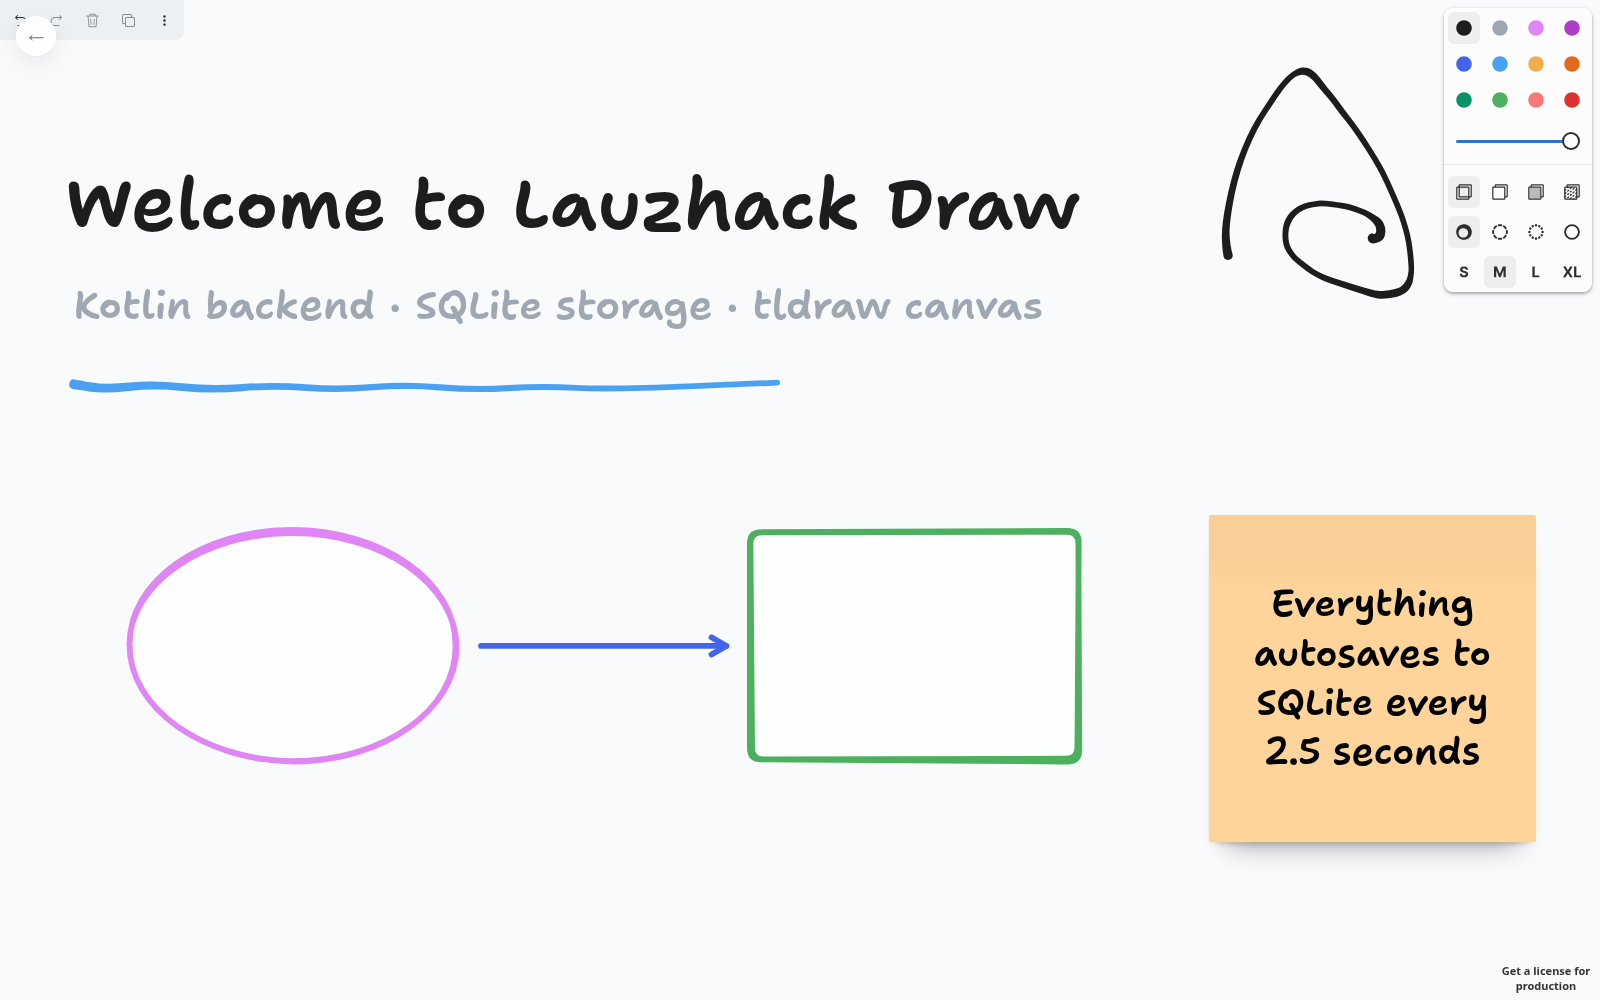
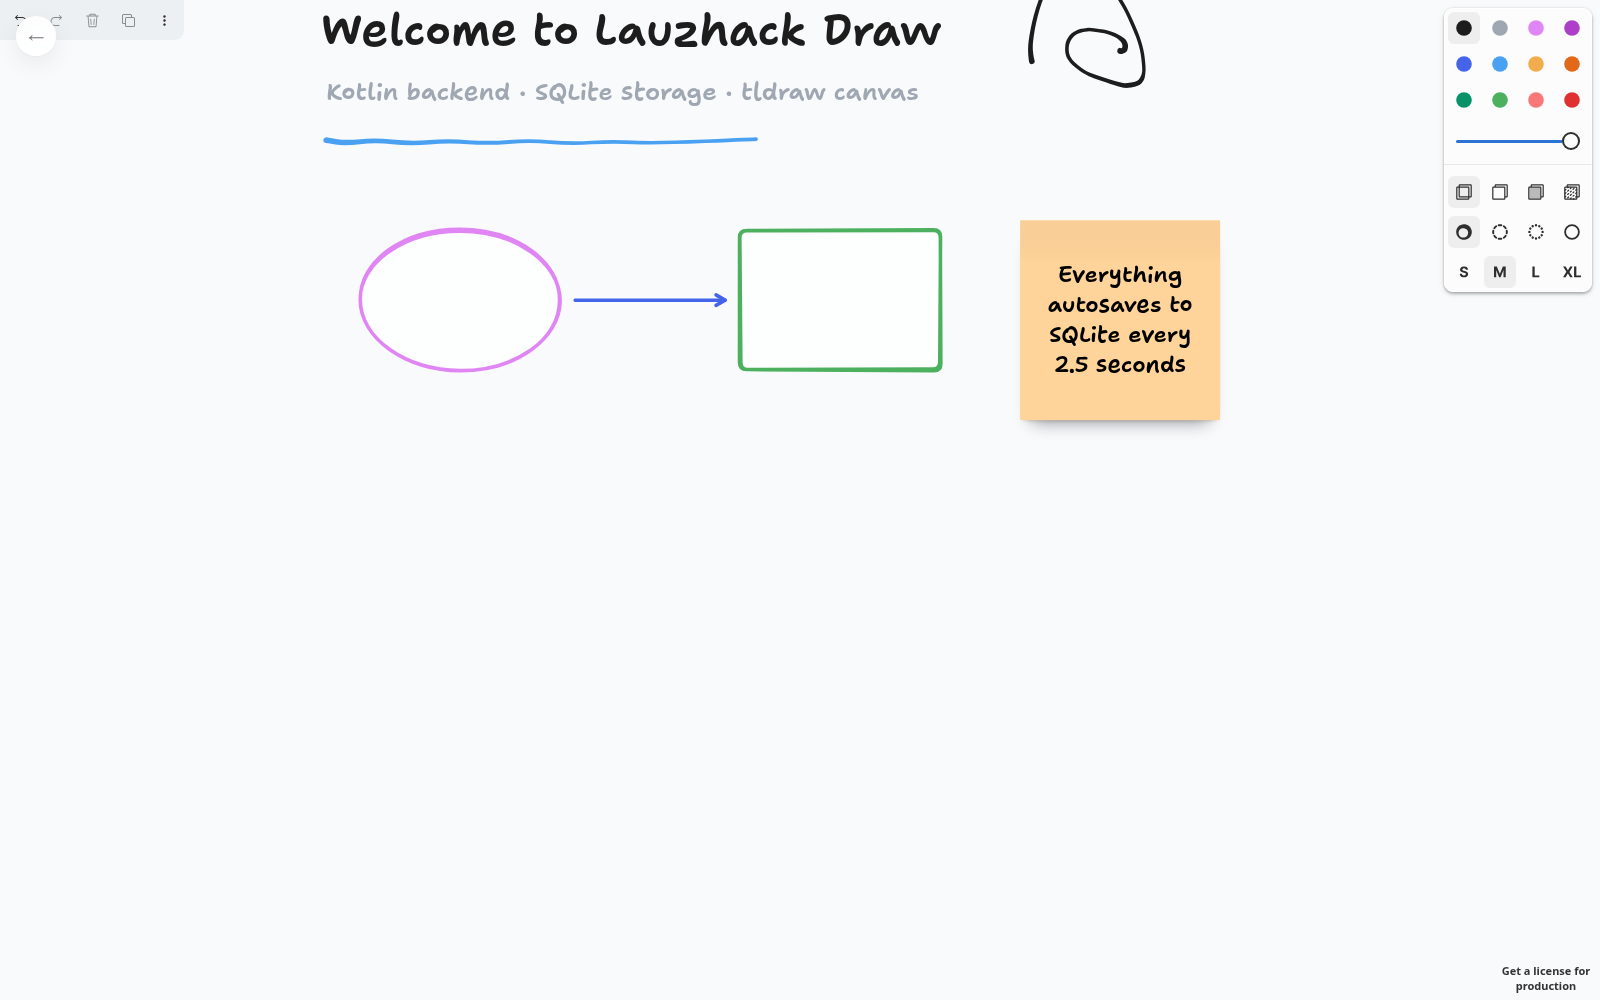
Vertical scrolling document camera
- camera constrained to a tall page (960x4800) with 'contain' behavior on
  both axes; wheel pans instead of zooming; initialZoom fit-x-100 caps the
  start at 100% with the page centered and its top pinned (origin.y = 0)
- padding is required by the constraints API (fixed a mount crash)
- removed zoomToFit: constraints + initialZoom own camera placement
- hero screenshot retaken

diff --git a/web/src/jsMain/kotlin/com/lauzhack/web/ui/Canvas.kt b/web/src/jsMain/kotlin/com/lauzhack/web/ui/Canvas.kt
@@ -1,7 +1,6 @@
 package com.lauzhack.web.ui
 
 import com.lauzhack.shared.api.DrawingApi
-import com.lauzhack.web.tldraw.Editor
 import com.lauzhack.web.tldraw.Tldraw
 import com.lauzhack.web.tldraw.toElementOrNull
 import com.lauzhack.web.tldraw.toShapePartial
@@ -39,8 +38,48 @@ private fun hiddenComponents(): dynamic {
 private fun singlePageOptions(): dynamic {
     val o: dynamic = js("{}")
     o.maxPages = 1
+    o.camera = documentCameraOptions()
     return o
 }
+
+/**
+ * Camera behaves like a vertical scrolling document:
+ * - wheel pans (scrolls) instead of zooming
+ * - the camera is constrained to a tall page; 'contain' pins the page while
+ *   zoomed out below the fit zoom and keeps it inside the viewport when zoomed in
+ */
+private fun documentCameraOptions(): dynamic {
+    val camera: dynamic = js("{}")
+    camera.wheelBehavior = "pan"
+
+    val constraints: dynamic = js("{}")
+    val bounds: dynamic = js("{}")
+    bounds.x = 0.0
+    bounds.y = 0.0
+    bounds.w = PAGE_WIDTH
+    bounds.h = PAGE_HEIGHT
+    constraints.bounds = bounds
+
+    val origin: dynamic = js("{}")
+    origin.x = 0.5
+    origin.y = 0.0 // open at the top of the document, like a real document
+    constraints.origin = origin
+
+    constraints.behavior = "contain"
+    constraints.initialZoom = "fit-x-100"
+
+    val padding: dynamic = js("{}")
+    padding.x = 32.0
+    padding.y = 32.0
+    constraints.padding = padding
+
+    camera.constraints = constraints
+    return camera
+}
+
+/** Dimensions of the document page (page-space bounds). */
+private const val PAGE_WIDTH = 960.0
+private const val PAGE_HEIGHT = 4800.0
 
 val Canvas = FC<CanvasProps> { props ->
     Tldraw {
@@ -74,9 +113,8 @@ val Canvas = FC<CanvasProps> { props ->
                         Console.warn("skipped shape: " + (created.exceptionOrNull()?.message ?: "unknown error"))
                     }
                 }
-                if (partials.isNotEmpty()) {
-                    runCatching { editor.zoomToFit() }
-                }
+                // camera placement is owned by the camera constraints
+                // (initialZoom 'fit-x-100' + origin), not zoomToFit
 
                 // SAVE: batch-replace when content changed (poll every 2.5s)
                 var lastPayload: String? = null

diff --git a/web/src/jsMain/kotlin/com/lauzhack/web/tldraw/Externals.kt b/web/src/jsMain/kotlin/com/lauzhack/web/tldraw/Externals.kt
@@ -26,8 +26,6 @@ external interface Editor {
     fun createShapes(shapes: Array<dynamic>)
     fun deleteShapes(ids: Array<String>)
     fun getShape(id: String): TlRecord?
-    fun setCurrentTool(id: String)
-    fun zoomToFit()
 }
 
 /** A tldraw store record (shapes, pages, bindings, ...). */

diff --git a/README.md b/README.md
@@ -17,6 +17,12 @@ toolbar, pages) is hidden — pick tools via keyboard shortcuts (V, D, E, R,
 A, T) and colors from the contextual style panel. Autosave runs silently
 in the background.
 
+The canvas behaves like a **vertical scrolling document**: the camera is
+constrained to a tall page (960×4800) with `contain` behavior — the mouse
+wheel pans vertically instead of zooming, zooming out past the fit zoom pins
+the page, and zooming in keeps the camera inside the document bounds
+(`wheelBehavior: pan`, `initialZoom: fit-x-100`).
+
 The database stores **generic drawing data** (strokes, geometry, text, arrows
 with style/color info) — tldraw is just the web-facing editor. Android and iOS
 apps planned later will consume the same API and the same `shared` module.
